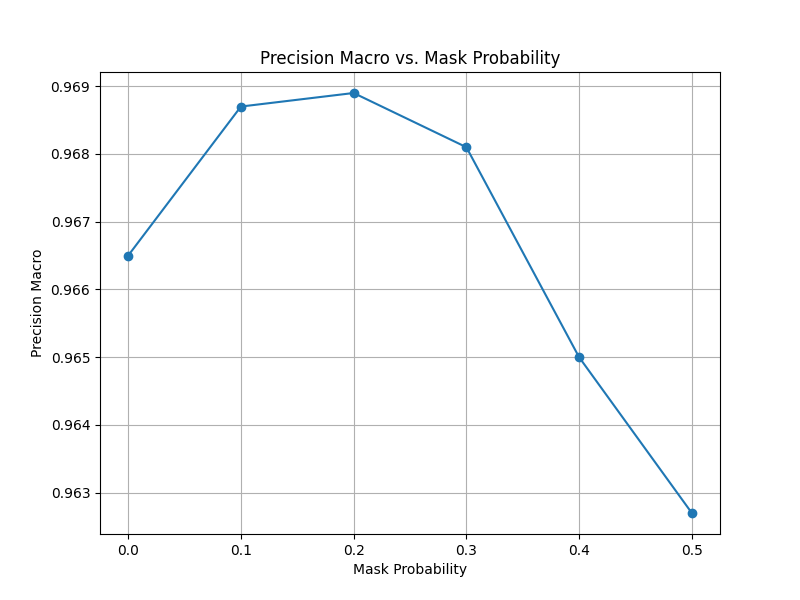
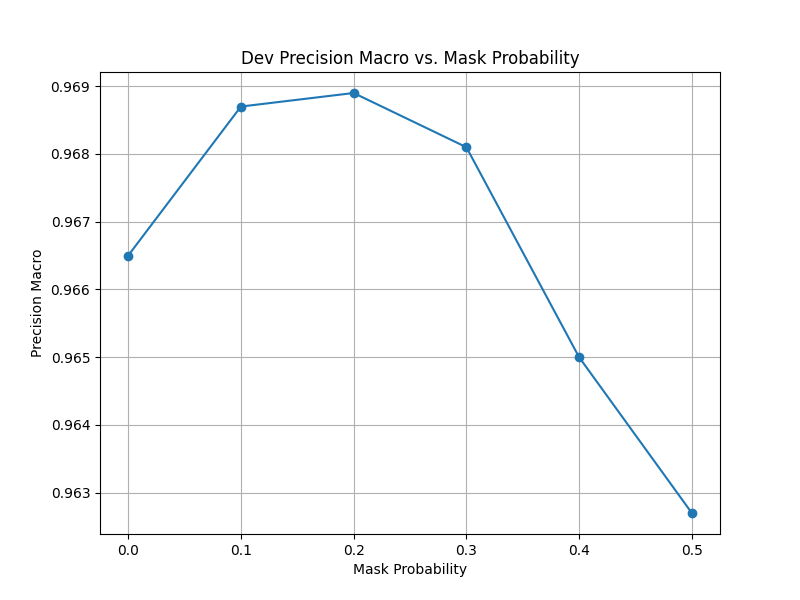
combined F1 macro and F1 weighted plots

Changed region(s): [[0.3125, 0.09, 0.7188, 0.12]]

diff --git a/utils/performance_vs_prob_plot.py b/utils/performance_vs_prob_plot.py
@@ -9,10 +9,10 @@ def parse_logs(log_file):
     best_metrics = {}
     f1_macro_pattern = re.compile(r"F1 Macro: (\d+\.\d+)")
     metrics_pattern = re.compile(
-    r"Dev F1 Macro = (\d+\.\d+), Dev F1 Weighted = (\d+\.\d+)"
-    r"Dev Precision Macro = (\d+\.\d+), Dev Recall Macro = (\d+\.\d+)"
-    r"Dev Accuracy = (\d+\.\d+)"
-)
+        r"Dev F1 Macro = (\d+\.\d+), Dev F1 Weighted = (\d+\.\d+)"
+        r"Dev Precision Macro = (\d+\.\d+), Dev Recall Macro = (\d+\.\d+)"
+        r"Dev Accuracy = (\d+\.\d+)"
+    )
 
     with open(log_file, 'r') as f:
         for line in f:
@@ -44,6 +44,9 @@ def parse_logs(log_file):
 
 
 def aggregate_metrics(log_dir):
+    """
+    Aggregates metrics from all log files in the specified directory.
+    """
     aggregated_metrics = {}
     for log_file in os.listdir(log_dir):
         if log_file.endswith(".log"):  # Process only log files
@@ -52,9 +55,33 @@ def aggregate_metrics(log_dir):
             aggregated_metrics.update(file_metrics)
     return aggregated_metrics
 
-def plot_metrics(best_metrics, output_dir):
+def plot_f1_metrics(best_metrics, output_dir):
+    """
+    Plots F1 Macro and F1 Weighted metrics on the same plot.
+    """
     probabilities = sorted(best_metrics.keys())
-    metrics = ["F1 Macro", "F1 Weighted", "Precision Macro", "Recall Macro", "Accuracy"]
+    f1_macro_values = [best_metrics[prob]["F1 Macro"] for prob in probabilities]
+    f1_weighted_values = [best_metrics[prob]["F1 Weighted"] for prob in probabilities]
+    
+    os.makedirs(output_dir, exist_ok=True)
+
+    plt.figure(figsize=(8, 6))
+    plt.plot(probabilities, f1_macro_values, marker='o', label="F1 Macro", color="blue")
+    plt.plot(probabilities, f1_weighted_values, marker='o', label="F1 Weighted", color="green")
+    plt.title("Dev F1 Scores vs. Mask Probability")
+    plt.xlabel("Mask Probability")
+    plt.ylabel("F1 Score")
+    plt.legend()
+    plt.grid()
+    plt.savefig(os.path.join(output_dir, "f1_scores_vs_mask_probability.png"))
+    plt.close()
+
+def plot_individual_metrics(best_metrics, output_dir):
+    """
+    Plots individual metrics (other than F1 scores) for each mask probability.
+    """
+    probabilities = sorted(best_metrics.keys())
+    metrics = ["Precision Macro", "Recall Macro", "Accuracy"]
     
     os.makedirs(output_dir, exist_ok=True)
 
@@ -62,7 +89,7 @@ def plot_metrics(best_metrics, output_dir):
         values = [best_metrics[prob][metric] for prob in probabilities]
         plt.figure(figsize=(8, 6))
         plt.plot(probabilities, values, marker='o', label=metric)
-        plt.title(f"{metric} vs. Mask Probability")
+        plt.title(f"Dev {metric} vs. Mask Probability")
         plt.xlabel("Mask Probability")
         plt.ylabel(metric)
         plt.grid()
@@ -71,8 +98,9 @@ def plot_metrics(best_metrics, output_dir):
 
 # Paths for logs and plots
 log_directory = "../logs"  # Folder containing the log files
-plot_directory = "../plot"  # Folder to save the plots
+plot_directory = "../plots"  # Folder to save the plots
 
 # Parse logs and generate plots
 best_metrics = aggregate_metrics(log_directory)
-plot_metrics(best_metrics, plot_directory)
+plot_f1_metrics(best_metrics, plot_directory)
+plot_individual_metrics(best_metrics, plot_directory)
